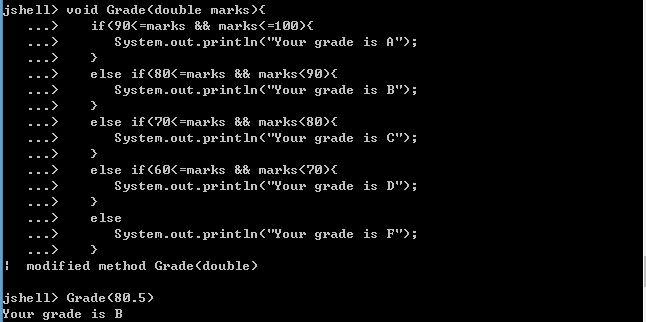
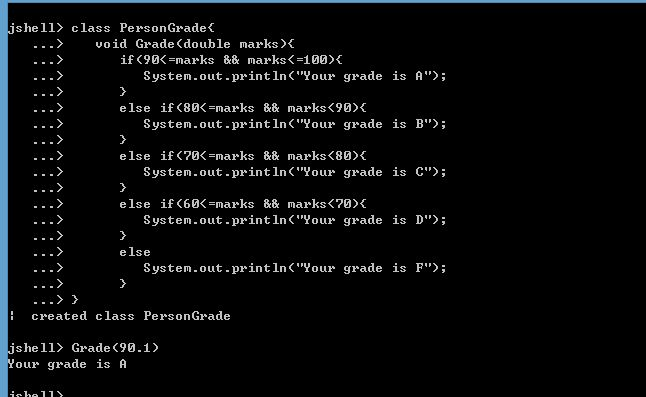
Add files via upload

Changed region(s): [[0.0, 0.0, 1.0, 1.0], [0.1548, 0.4969, 0.6811, 0.5901], [0.1548, 0.6211, 0.6811, 0.7453]]

diff --git a/SwirlSquare and FC and AF/201311187_Grade.java b/SwirlSquare and FC and AF/201311187_Grade.java
@@ -1,18 +1,21 @@
-void Grade(double marks){
-   if(90<=marks && marks<=100){
-      System.out.println("Your grade is A");
-   }
-   else if(80<=marks && marks<90){
-      System.out.println("Your grade is B");
-   }
-   else if(70<=marks && marks<80){
-      System.out.println("Your grade is C");
-   }
-   else if(60<=marks && marks<70){
-      System.out.println("Your grade is D");
-   }
-   else
-      System.out.println("Your grade is F");
-   }
+   
+class PersonGrade{
+   void Grade(double marks){
+      if(90<=marks && marks<=100){
+         System.out.println("Your grade is A");
+      }
+      else if(80<=marks && marks<90){
+         System.out.println("Your grade is B");
+      }
+      else if(70<=marks && marks<80){
+         System.out.println("Your grade is C");
+      }
+      else if(60<=marks && marks<70){
+         System.out.println("Your grade is D");
+      }
+      else
+         System.out.println("Your grade is F");
+      }
+}
 
-Grade(80.5)
+Grade(90.1)

diff --git a/SwirlSquare and FC and AF/201311187_Temperature.java b/SwirlSquare and FC and AF/201311187_Temperature.java
@@ -1,0 +1,18 @@
+class Temp {
+   double toC(double f) {
+      double c = (f - 32) * (5.0 / 9.0);
+      return c;
+   }
+   double toF(double c){
+      double f =  c * (9.0 / 5.0) + 32; 
+      return f;
+   }
+   
+
+   public static void main(String[] args) {
+      Temp t = new Temp();
+      System.out.println(t.toC(75)); 
+      System.out.println(t.toF(90));
+   }
+}
+
